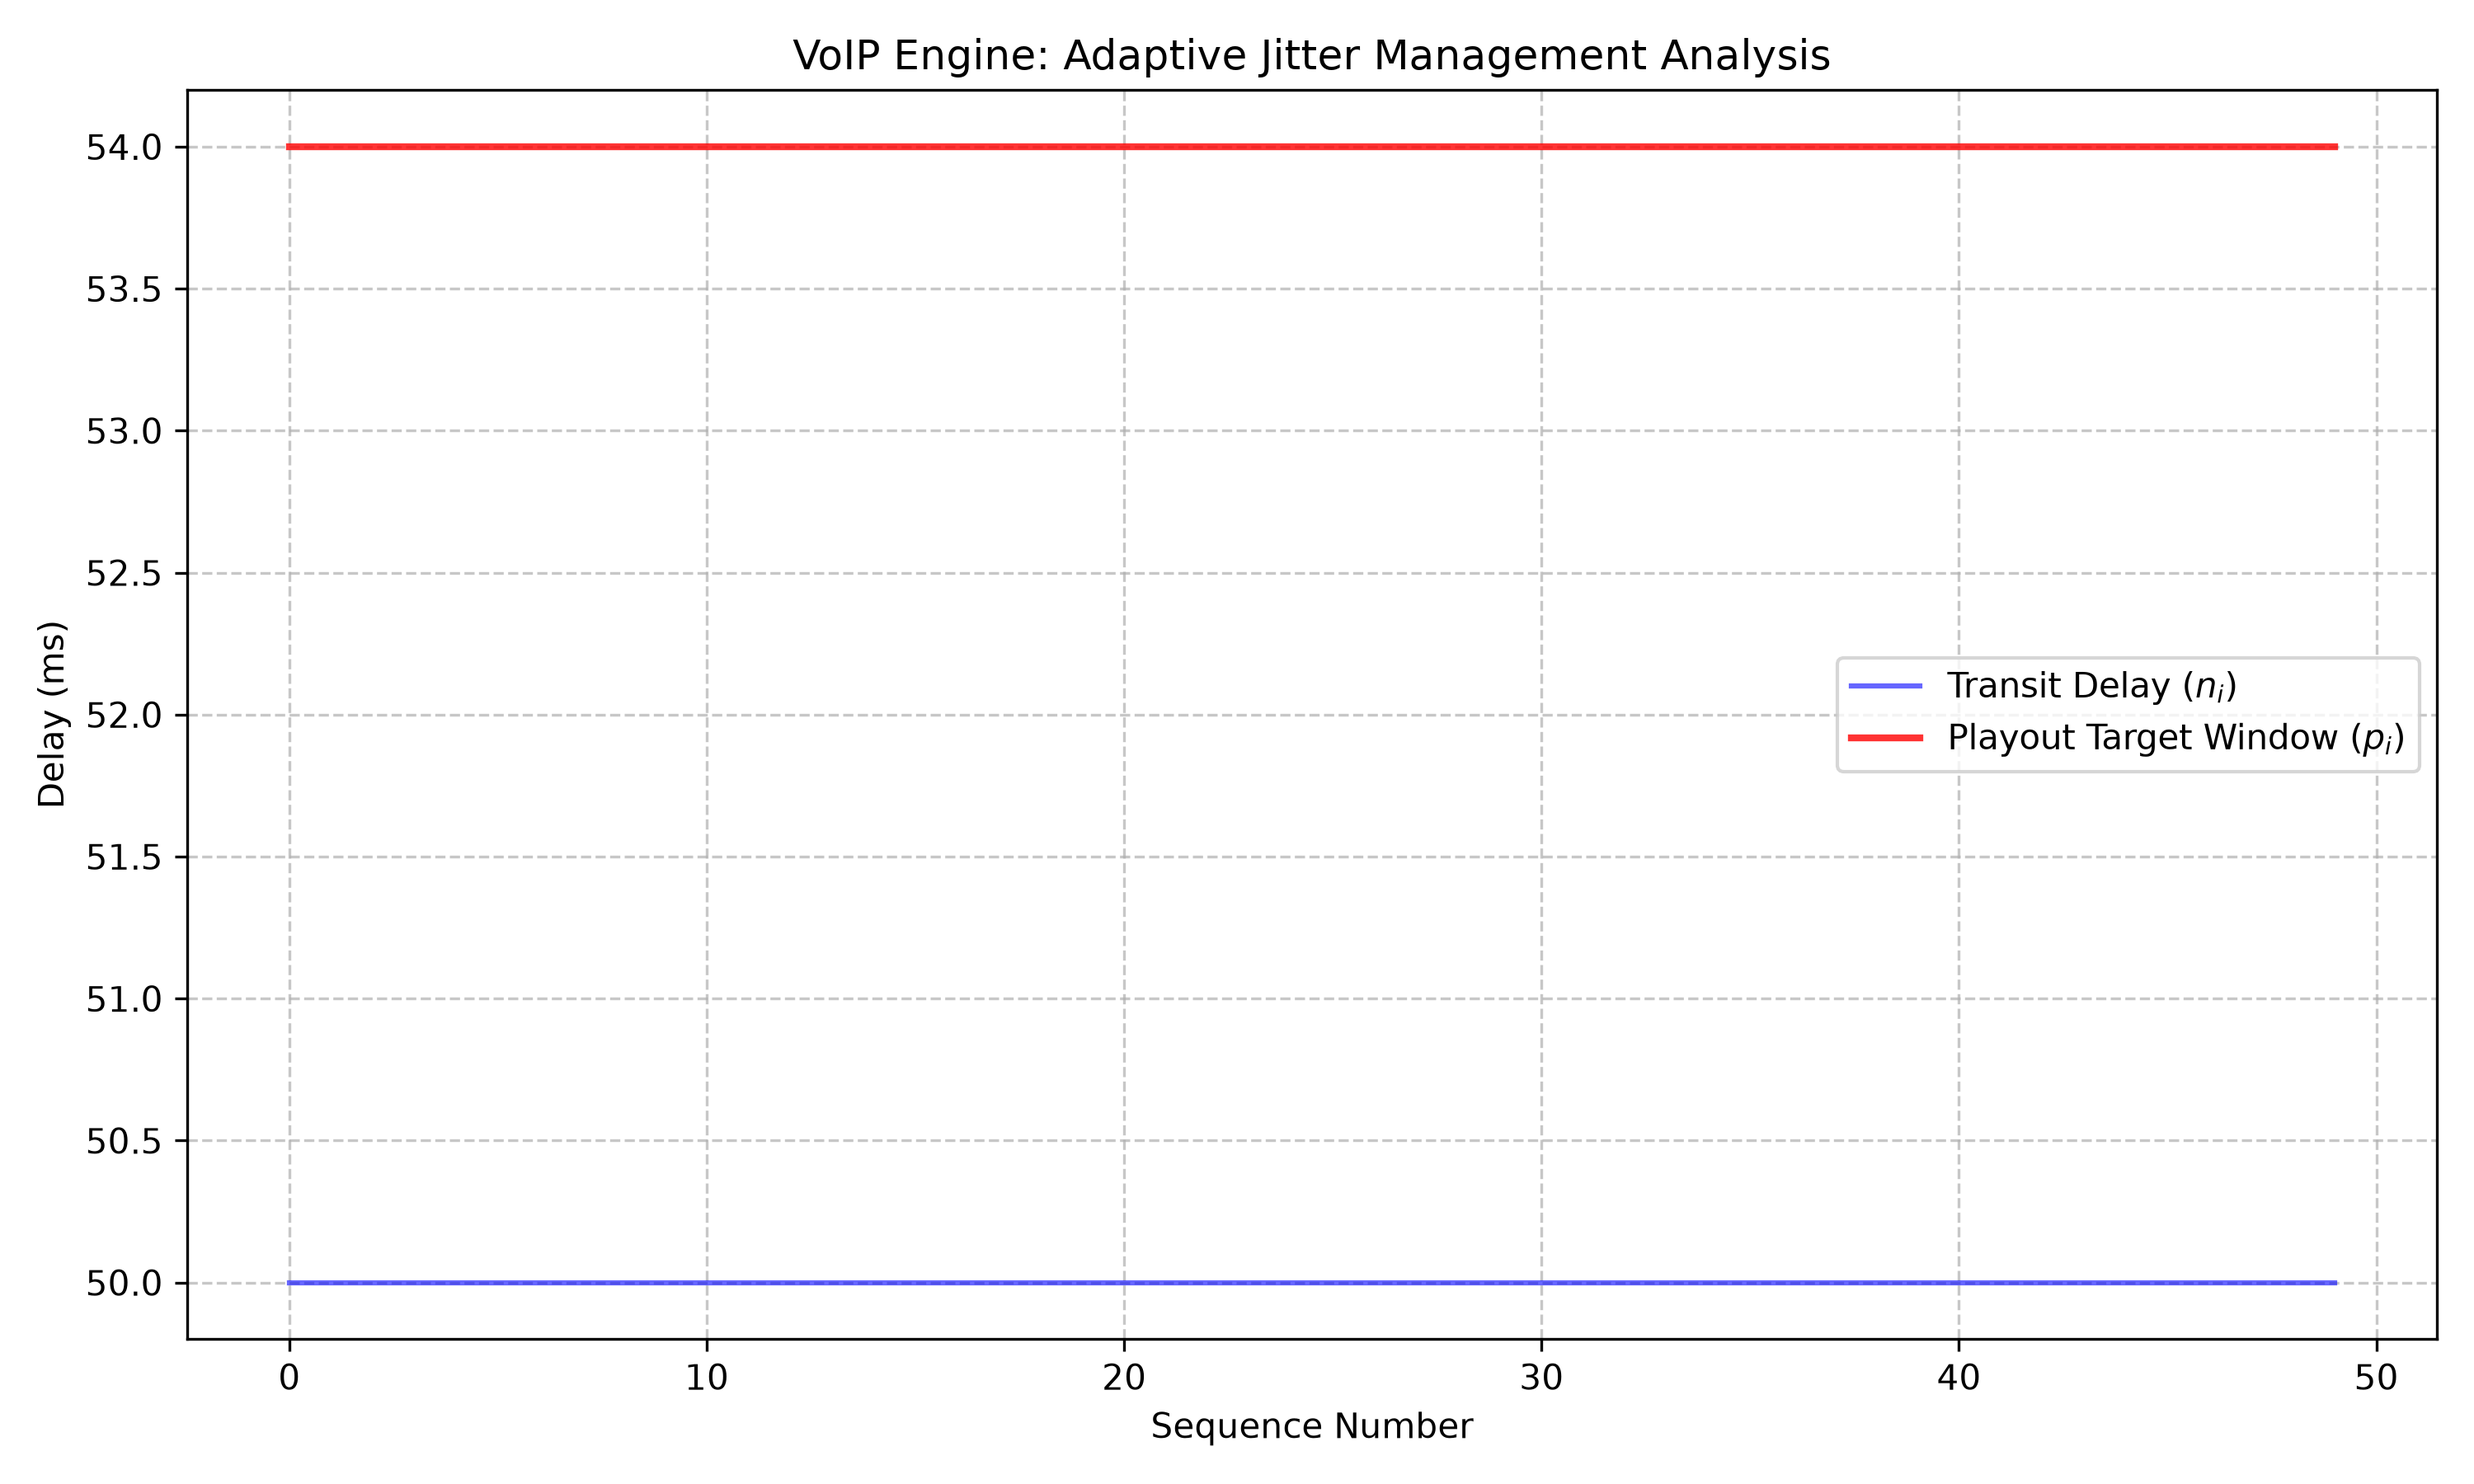
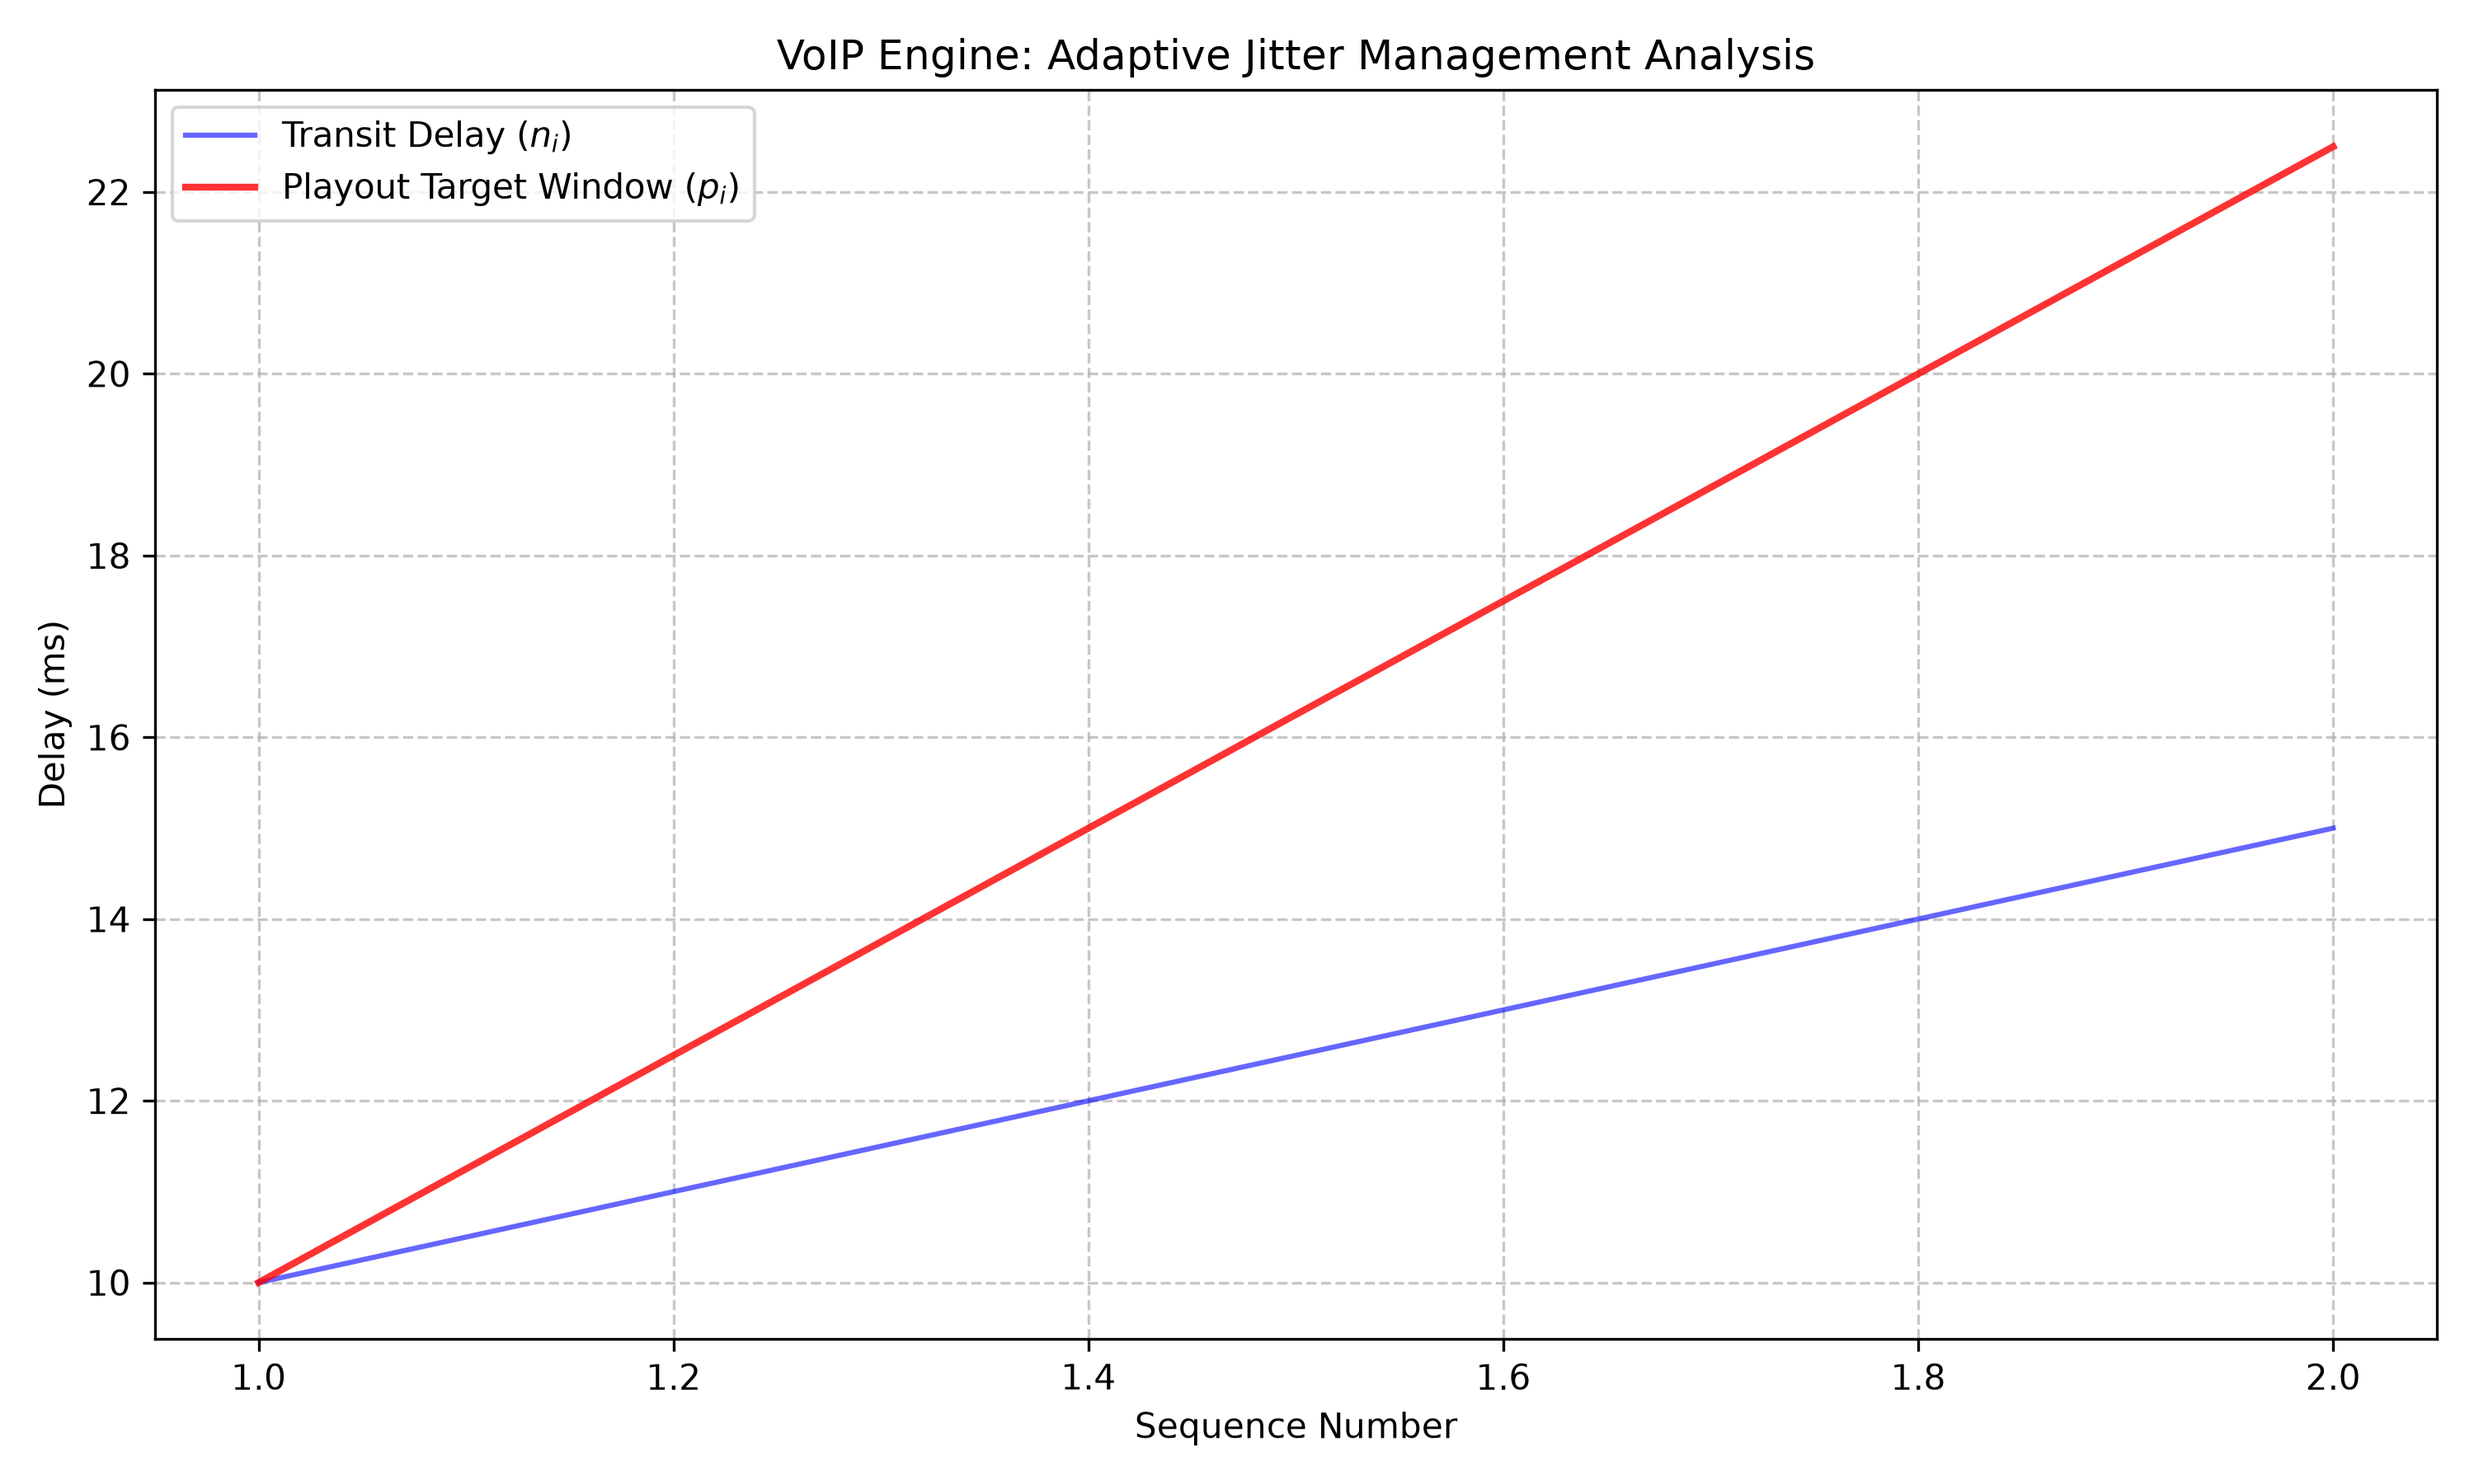
Added VoIP diagnostic test suite and update jitter metrics and graphs

diff --git a/test_voip.py b/test_voip.py
@@ -1,0 +1,146 @@
+"""
+test_voip.py
+Comprehensive diagnostic suite to test VoIP Engine subsystems.
+"""
+
+import sys
+import os
+import subprocess
+import time
+import csv
+import threading
+
+def print_header(title):
+    print("=" * 60)
+    print(title)
+    print("=" * 60)
+
+def test_imports():
+    try:
+        import sounddevice as sd
+        import pandas as pd
+        import matplotlib
+        import tkinter
+        import socket
+        import struct
+        import queue
+        print(f"[PASS] Module Imports       {' ' * 20}")
+        return True
+    except Exception as e:
+        print(f"[FAIL] Module Imports       {e}")
+        return False
+
+def test_audio():
+    try:
+        import sounddevice as sd
+        sd.query_devices(kind='input')
+        sd.query_devices(kind='output')
+        print("[PASS] Audio Subsystem      sounddevice initialized successfully")
+        return True
+    except Exception as e:
+        print(f"[FAIL] Audio Subsystem      {e}")
+        return False
+
+def test_sockets():
+    try:
+        import socket
+        sock_sip_s = socket.socket(socket.AF_INET, socket.SOCK_DGRAM)
+        sock_sip_s.setsockopt(socket.SOL_SOCKET, socket.SO_REUSEADDR, 1)
+        sock_sip_s.bind(('0.0.0.0', 5060))
+        
+        sock_sip_c = socket.socket(socket.AF_INET, socket.SOCK_DGRAM)
+        sock_sip_c.setsockopt(socket.SOL_SOCKET, socket.SO_REUSEADDR, 1)
+        sock_sip_c.bind(('0.0.0.0', 5061))
+        
+        sock_rtp = socket.socket(socket.AF_INET, socket.SOCK_DGRAM)
+        sock_rtp.setsockopt(socket.SOL_SOCKET, socket.SO_REUSEADDR, 1)
+        sock_rtp.bind(('0.0.0.0', 5005))
+        
+        sock_sip_s.close()
+        sock_sip_c.close()
+        sock_rtp.close()
+        
+        print("[PASS] Network Sockets      Ports 5060, 5061 and 5005 bound successfully")
+        return True
+    except Exception as e:
+        print(f"[FAIL] Network Sockets      {e}")
+        return False
+
+def test_jitter_buffer_plc():
+    try:
+        from jitter_buffer import AdaptiveJitterBuffer
+        jb = AdaptiveJitterBuffer()
+        
+        # 1. Push a normal packet
+        payload_1 = b'\x11' * 320
+        jb.push(1, 1000, payload_1)
+        
+        # Pop it
+        popped_1 = jb.pop()
+        if popped_1 != payload_1:
+            print("[FAIL] Jitter Buffer PLC    Normal pop mismatch")
+            return False
+            
+        # 2. Buffer is now empty. A pop should trigger PLC (50% attenuation)
+        plc_payload = jb.pop()
+        import struct
+        expected_samples = struct.unpack(f'{320//2}h', payload_1)
+        expected_attenuated = [int(s * 0.5) for s in expected_samples]
+        expected_plc = struct.pack(f'{len(expected_attenuated)}h', *expected_attenuated)
+        
+        if plc_payload != expected_plc:
+            print("[FAIL] Jitter Buffer PLC    PLC attenuation failed")
+            return False
+            
+        print("[PASS] Jitter Buffer PLC    PLC attenuation logic working correctly")
+        return True
+    except Exception as e:
+        print(f"[FAIL] Jitter Buffer PLC    {e}")
+        return False
+
+def test_pipeline():
+    try:
+        with open('jitter_metrics.csv', 'w', newline='') as f:
+            writer = csv.writer(f)
+            writer.writerow(['seq_num', 'send_time', 'recv_time', 'transit_delay', 'moving_delay', 'jitter', 'playout_target'])
+            writer.writerow([1, 1000, 1010, 10, 10, 0, 10])
+            writer.writerow([2, 1020, 1035, 15, 12.5, 2.5, 22.5])
+            
+        result1 = subprocess.run([sys.executable, "plot_metrics.py"], capture_output=True, text=True, check=False)
+        result2 = subprocess.run([sys.executable, "plot_jitter.py"], capture_output=True, text=True, check=False)
+        
+        if os.path.exists("jitter_analysis.png") and os.path.exists("jitter_variance.png"):
+            print("[PASS] Data Pipeline        Graphs generated successfully")
+            return True
+        print(f"[FAIL] Data Pipeline        Images not generated.")
+        return False
+    except Exception as e:
+        print(f"[FAIL] Data Pipeline        {e}")
+        return False
+
+def main():
+    print_header("VoIP Engine - Comprehensive System Diagnostics")
+    
+    results = [
+        test_imports(),
+        test_audio(),
+        test_sockets(),
+        test_jitter_buffer_plc(),
+        test_pipeline()
+    ]
+    
+    print("-" * 60)
+    passed = sum(1 for r in results if r)
+    total = len(results)
+    
+    print(f"Diagnostics complete. {passed}/{total} subsystems passed.\n")
+    
+    if passed == total:
+        print("SUCCESS: All VoIP engine components are verified and operational.")
+        sys.exit(0)
+    else:
+        print("WARNING: Some components failed. Check the logs above.")
+        sys.exit(1)
+
+if __name__ == "__main__":
+    main()
